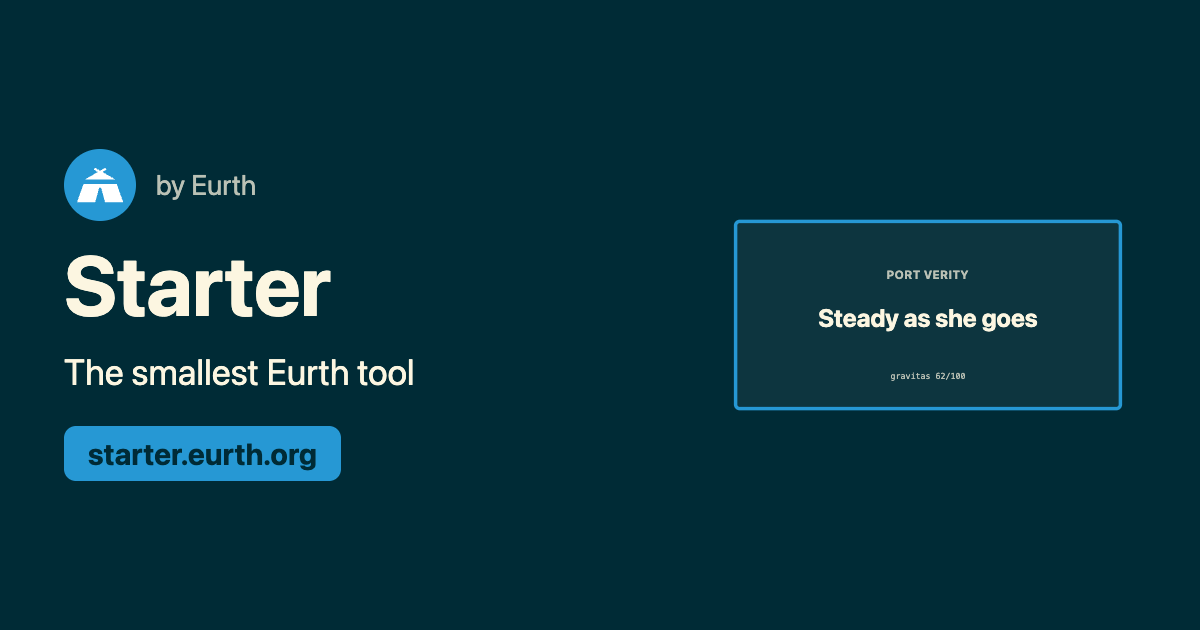
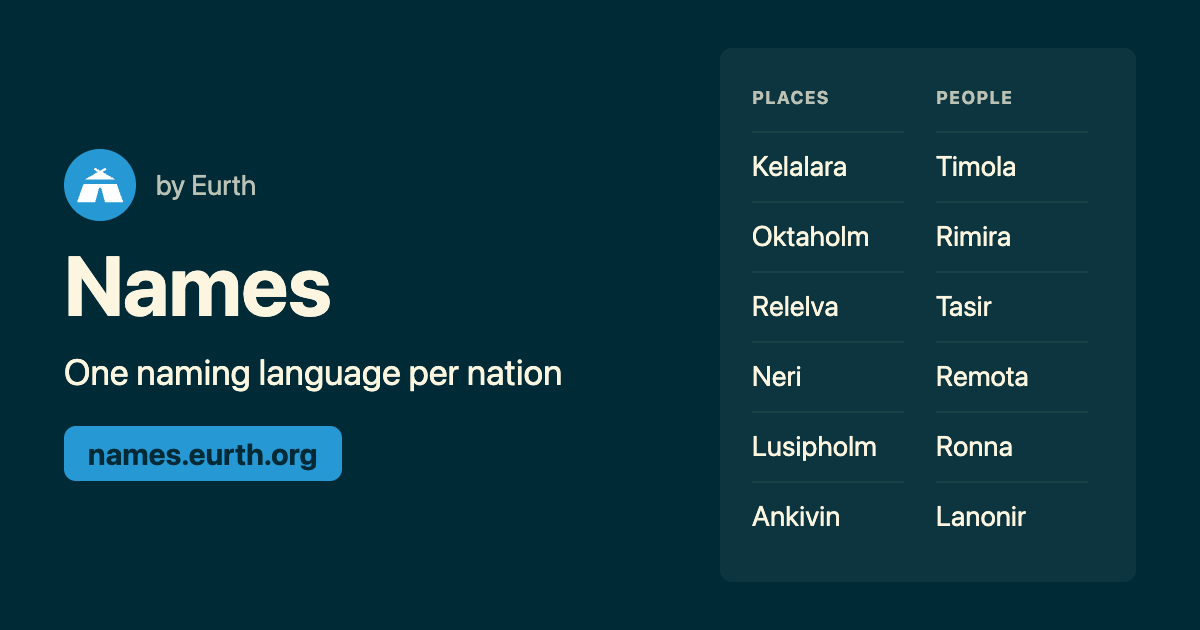
The sharing image, the sound switch, and the roadmap brought up to date
The sharing image shows Names (two columns from the first preset) instead of
the starter's plate. The footer offers the sound switch, since a new batch
types itself in with two soft keys. Roadmap: the site is built and checked;
what is left before the door, and what comes after.

diff --git a/src/tool/Generator.svelte b/src/tool/Generator.svelte
@@ -12,7 +12,7 @@
   import { faArrowsRotate, faCheck, faDice, faDownload, faFolderOpen, faLock, faLockOpen, faPlus, faRotateLeft, faStar, faTriangleExclamation, faCircleInfo } from '@fortawesome/free-solid-svg-icons';
   import { createProfile, getSection, setNation, setSection, type EurthProfile } from '@eurth/profile';
   import ProfileButtons from '@eurth/profile/ProfileButtons.svelte';
-  import { calm, copyText, download, fileSlug, playTones, toast } from '@eurth/style';
+  import { calm, copyText, download, fileSlug, niceWatcher, playTones, toast } from '@eurth/style';
   import Icon from '@eurth/style/components/Icon.svelte';
   import ShareButtons from '@eurth/style/components/ShareButtons.svelte';
   import { onMount } from 'svelte';
@@ -44,6 +44,7 @@
   /** The language as it was before a preset replaced it, for one step back. */
   let before = $state.raw<State | null>(null);
   let newEnding = $state('');
+  let bareSlider: HTMLInputElement | undefined = $state();
 
   const state = $derived<State>({ language, draw });
   const batch = $derived(generate(language, draw));
@@ -120,6 +121,10 @@
     announcement = announceBatch(next);
     if (kinds.some((kind) => next[kind].names.some((n) => isPlanetName(n.text)))) toast(PLANET_TOAST);
   }
+
+  // The suite's wink: "Nice." when a number settles on 69.
+  const watch = niceWatcher();
+  $effect(() => watch(language.places.bare, () => bareSlider));
 
   // ---- Actions ------------------------------------------------------------------------------
   function generateAll() {
@@ -406,7 +411,7 @@
         <ListField id="place-endings" label="Place endings, with weights" value={formatEndings(language.places.endings)} onchange={(text) => editPlaces({ endings: text })} help="vin*20 holm makes -vin twice as common as -holm." />
         <label class="eu-field">
           <span class="eu-label">Places with no ending: <output class="eu-data">{language.places.bare}</output> in 100</span>
-          <input class="eu-range" type="range" min="0" max="100" step="5" value={language.places.bare} style:--fill="{language.places.bare}%" oninput={(e) => editPlaces({ bare: e.currentTarget.value })} />
+          <input bind:this={bareSlider} class="eu-range" type="range" min="0" max="100" value={language.places.bare} style:--fill="{language.places.bare}%" oninput={(e) => editPlaces({ bare: e.currentTarget.value })} />
         </label>
         <label class="eu-pill switch">
           <input type="checkbox" checked={language.given.gendered} onchange={(e) => editGiven({ gendered: e.currentTarget.checked })} />
@@ -420,7 +425,7 @@
         <ListField id="either" label={language.given.gendered ? 'Endings for either' : 'Given-name endings'} value={formatEndings(language.given.either)} onchange={(text) => editGiven({ either: text })} placeholder="in" />
         <label class="eu-field">
           <span class="eu-label">{language.given.gendered ? 'Names for either with no ending' : 'Given names with no ending'}: <output class="eu-data">{language.given.bare}</output> in 100</span>
-          <input class="eu-range" type="range" min="0" max="100" step="5" value={language.given.bare} style:--fill="{language.given.bare}%" oninput={(e) => editGiven({ bare: e.currentTarget.value })} />
+          <input class="eu-range" type="range" min="0" max="100" value={language.given.bare} style:--fill="{language.given.bare}%" oninput={(e) => editGiven({ bare: e.currentTarget.value })} />
         </label>
       </div>
     </details>

diff --git a/roadmap.md b/roadmap.md
@@ -6,41 +6,46 @@ Three parts: what comes next, what each release added (newest first), and what's
 
 ## Where to pick up
 
-**14 November 2026, late.** Phase 1 is finished: the engine, the presets, the guide's worked examples, the glossary and the sources are written and tested (174 tests, `npm test`). @eurth/style 1.0.1 and @eurth/profile 1.0.0 are released, so Phase 2 can start. The next step is Phase 2, step 14: copy the starter template from eurth-style and put the engine behind it.
+**15 November 2026.** The site is built and passes every check: types, 250 tests (the engine's own, the built pages, and the suite's checks from @eurth/style), and the accessibility check on all five pages in both themes. It is not deployed, and must not be before its door: the launch workflow does that on the evening of 11 December.
 
 What a new session needs to know:
 
-- **The engine is in `src/names/`** and has no dependencies. Start at `model.ts` (what a language is) and `generate.ts` (the promise about banned clusters). `src/content/` holds the guide's worked examples, the glossary and the sources as data; the guide's prose is still to be written, straight into the guide page.
-- **The profile section follows the handbook, not the brief.** The brief asked for the sound palette, word parts and seed in the `names` section; the handbook says a section is small and its `link` brings the whole design back. So the link carries the palette, the word parts and the seed, and the section holds `link`, `summary`, `language` and, if the person asks, the picked names. Every language fits in a link of under 3,900 characters; a test holds it to that.
-- **The link** is `?p=1.coastal.4471` for an untouched preset and `?d=1.…` for anything else. The `d` form is the same as `encodeState()` of @eurth/style writes; in Phase 2, use theirs instead of the copy in `link.ts`.
-- **Never update the snapshot in `tests/__snapshots__/`** once the site is live: it pins the first batch of every preset, and a change there changes every shared link. Until launch it may still be regenerated if a preset is retuned.
+- **Use Node 22.23 or later** (CI runs Node 26). Astro refuses older ones.
+- **`npm run build` before `npm test`:** the suite's checks and `tests/site.test.ts` read `dist/`.
+- **The engine is in `src/names/`**, the generator in `src/tool/Generator.svelte`, the pages in `src/pages/`, and the guide's examples, glossary and sources in `src/content/`.
+- **The profile section follows the handbook, not the brief.** The brief asked for the sound palette, word parts and seed in the `names` section; the handbook says a section is small and its `link` brings the whole design back. So the link carries the palette, the word parts and the seed, and the section holds `link`, `summary`, `language` and, if the person ticks the box, the picked names. Every language fits in a link of under 3,900 characters; a test holds it to that.
+- **Never update the snapshot in `tests/__snapshots__/` once the site is live:** it pins the first batch of every preset, and a change there changes every shared link. Until launch it may still be regenerated if a preset is retuned.
 
-Still to confirm with Stijn (none of it blocks the site):
+Still to confirm with Stijn (none of it blocks the launch):
 
 - **24 at a time** is 8 places, 8 people and 8 surnames.
 - **The first page is called "Generator"**, as the brief says; the mock-up's header says "Maker" and has no Presets link.
-- **"Lock seed"**, not the mock-up's "Lock sounds".
+- **"Lock seed"**, not the mock-up's "Lock sounds". Locked, the seed stays: Generate moves the three columns on under it, and a preset is heard on the same draws.
 - **"Latinate imperial"** is the brief's own name for a preset, and the one place a preset's name leans on a real language. Say if it should be "Stately imperial".
-- **A short built-in list of rude words** is filtered from every batch (`unwanted.ts`, kept in ROT13). The brief didn't ask for it.
+- **A short built-in list of rude words** is filtered from every batch (`src/names/unwanted.ts`, kept in ROT13). The brief didn't ask for it.
+- **The guide**: read it once as the person whose name is on it. Its facts are sourced and its examples are tested, but the advice on borrowing from real languages is a matter of judgement.
 
 ## Next
 
-### Phase 2: the site
+### Before the door (12 December 2026, 00:00 Europe/Brussels)
 
-14. Start from the starter template in eurth-style; read HANDBOOK.md first, and where it differs from this plan, the handbook wins.
-15. Pages: Generator, Guide, Glossary, Presets, with titles, descriptions, canonical links, JSON-LD, sitemap.xml, robots.txt, llms.txt and Open Graph images.
-16. The tool, as a Svelte 5 island, after the mock-up: preset, consonants, vowels, shapes and place endings on the left, with weights, leanings, banned clusters, given-name endings and surname patterns behind "More"; three columns of eight names on the right with the seed, Lock seed and a re-roll on each column.
-17. Picks: a star on every name ("Pick Selunna", "Unpick Selunna"), the picked list for this visit with Copy list. Nothing is stored.
-18. Save and load: Copy link and the Share dialog, the profile file (file picker and drag and drop, from @eurth/profile), the language as JSON in and out.
-19. Exports: the list as text and CSV, the language as JSON, Copy description.
-20. Delight: a new batch types itself in, letter by letter, fast (all at once for reduced motion); a small gold star and the toast "A fine name for a planet." for Eurth or wurld; the suite's own touches from @eurth/style.
-21. Offline, install, security headers, axe and Lighthouse checks, as the handbook asks.
-22. CI, and the launch workflow: `LAUNCH_AT` is `2026-12-12T00:00:00+01:00`, the scheduled run starts at 22:30 UTC on 11 December, and it also runs by hand. No custom domain and no workers.dev deploy before then.
-23. README (use, development, deployment), docs/feedback-log.md, and the handbook's checklist.
+- **Watch the first Lighthouse run** in CI on `main`, and fix what it finds.
+- **Try it on a real phone and with a screen reader** (VoiceOver): the typing effect, the stars and the "More" sections.
+- **On 11 December at 22:30 UTC** the launch workflow starts by itself. If it hasn't started by 22:45 UTC, run it by hand (Actions, Launch, Run workflow).
+- **After the launch:** delete `.github/workflows/launch.yml`, and move "Built, not yet released" below into a dated release section.
+
+### After launch
+
+- **A table for the sounds:** a row a sound with sliders for its weight and how it leans at the start and end of a word, beside the short written form. Today those are typed (`t*20`, `ng^0`, `h$0`).
+- **More of what a nation names:** rivers and mountains with endings of their own, a demonym from the nation's name, and a ruler's regnal name.
+- **A neighbour:** a second language derived from the first by a few sound changes, for the nation across the border.
+- **Nicknames** as a fourth surname pattern, from a small set of meanings (the tall, the red, the younger).
+- **Stress and pronunciation:** mark the stressed syllable, and a rough guide to saying each name.
+- **Send to another tool:** open Cities or Dynasty with names from the picked list, once those tools read the profile's `names` section.
 
 ## Built, not yet released
 
-Phase 1, 14 November 2026. This becomes the first release's section when the site launches.
+Built on 14 and 15 November 2026. This becomes the first release's section when the site launches.
 
 - **The language model:** consonants and vowels with weights and leanings (never, seldom, as usual, often at the start and end of a word), syllable shapes with weights, banned clusters, stem lengths, place endings, given-name endings by gender or none, and three surname patterns. Every list has a short written form ("p t*14 ng^0", "CV*60 CVC", "-sen mac- van_") that the text boxes, the link and the exported file share.
 - **Names from a seed:** 8 places, 8 people and 8 surnames from a generator of our own, the same in every browser. Each column has its own stream, so re-rolling one leaves the other two alone.
@@ -52,7 +57,12 @@ Phase 1, 14 November 2026. This becomes the first release's section when the sit
 - **Checks while you edit:** what stops a language making names, and what is quietly left out.
 - **Saving and sharing:** the link, the profile's `names` section, the language as a JSON file that loads back in, the list as text and CSV, and a written description.
 - **The planet:** a name that spells "Eurth" or "wurld" is spotted, for the gold star.
-- **For the guide:** ten worked examples that the tests run, a glossary of 49 terms, and eleven sources.
+- **The generator page:** the controls of the mock-up (preset, consonants, vowels, syllable shapes, place endings) with the rest behind "More"; three columns of eight names with a re-roll on each; Lock seed; notes on the language as you edit it.
+- **Picks:** a star on every name, a picked list for the visit with Copy list. Nothing is stored.
+- **A new batch types itself in,** letter by letter, in under half a second, with two soft keys if sound is on; all at once for reduced motion. Screen readers hear one line for the batch.
+- **The guide:** how naming languages work (sounds, syllables, the rules between them, word parts, why consistency sells a world, borrowing with respect), with ten worked examples that the tests run and eleven sources. A warm word and a link for Fantasy Name Generators.
+- **A glossary** of 49 terms, and **a presets page** with a few names from each and a link into the generator.
+- **The shell, the offline copy, the security headers and the launch workflow** from @eurth/style 1.0.1 and its starter template.
 
 ## Releases
 
